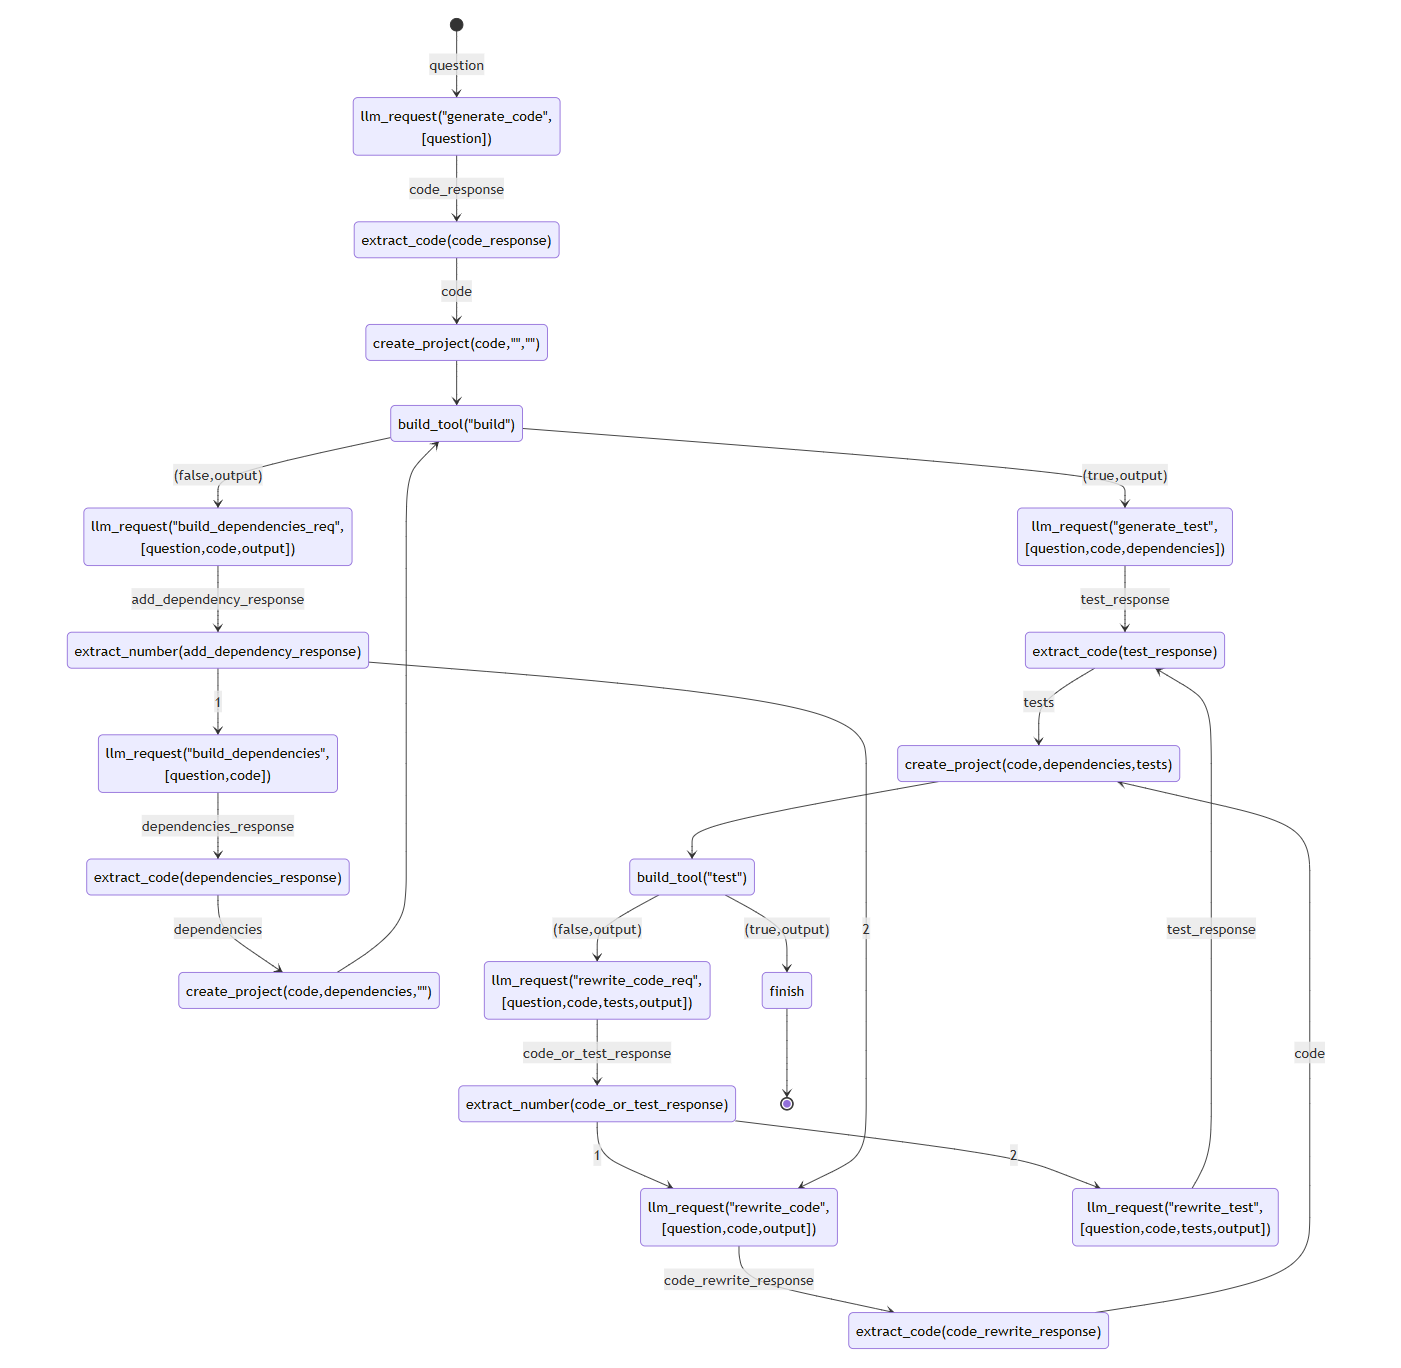
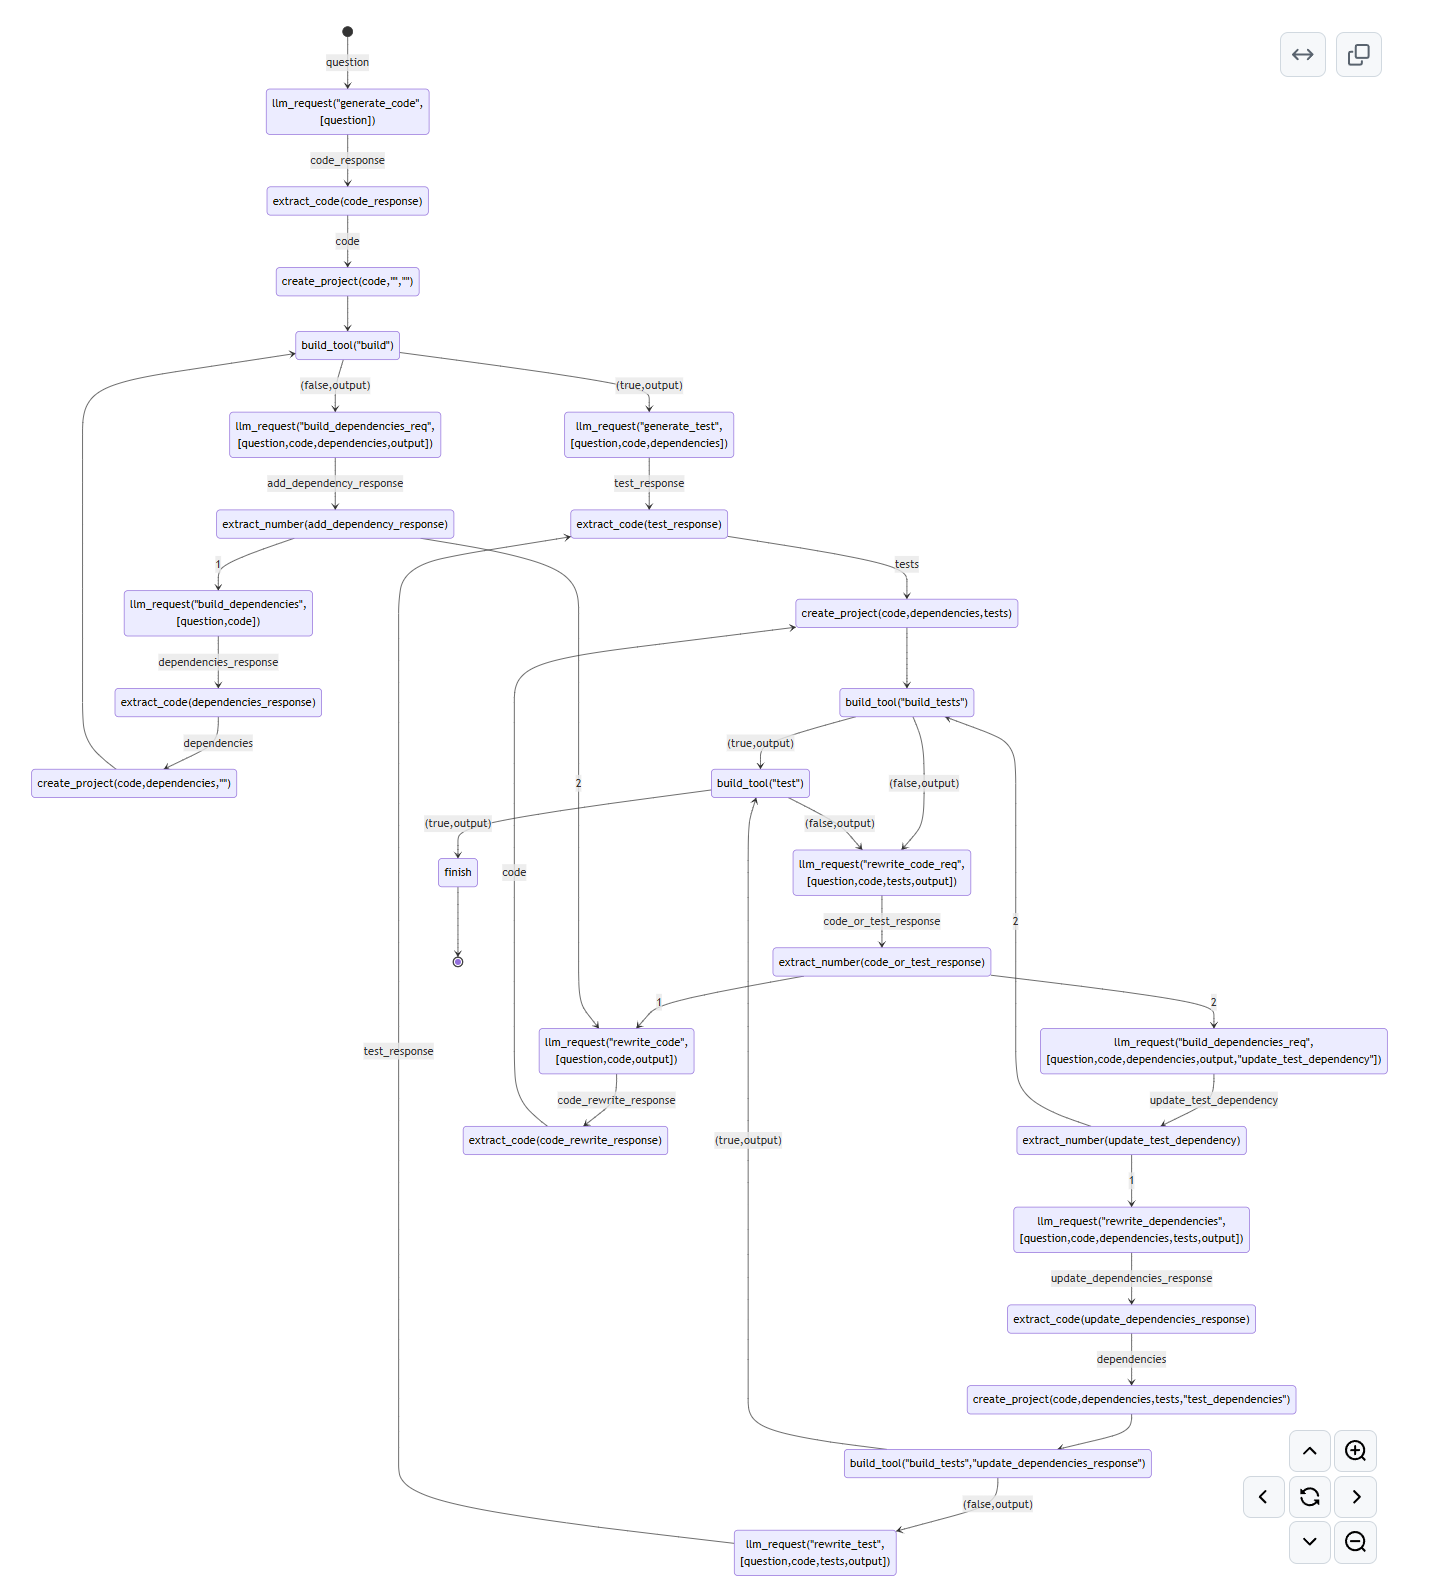
Logic prompt improve (#2)

diff --git a/src/build_tool.rs b/src/build_tool.rs
@@ -1,8 +1,13 @@
 use crate::cache::Cache;
 use crate::{DEBUG};
 
-pub fn build_tool(lang: &str, command: &str, cache: &mut Cache) -> (bool, String) {
+pub fn build_tool(lang: &str, command_str: &str, cache: &mut Cache) -> (bool, String) {
     if lang == "rust" {
+        let command = if command_str == "build_tests" {
+            "test --no-run"
+        } else {
+            command_str
+        };
         println!("Exec: cargo {}", command);
         let code = if std::path::Path::new("sandbox/src/main.rs").exists() {
             std::fs::read_to_string("sandbox/src/main.rs").unwrap()
@@ -20,9 +25,10 @@ pub fn build_tool(lang: &str, command: &str, cache: &mut Cache) -> (bool, String
         let result_str_opt = cache.get(&key);
         let result_str = match result_str_opt {
             None => {
-
+                // split by ' '
+                let args= command.split(" ").collect::<Vec<&str>>();
                 let output = std::process::Command::new("cargo")
-                    .arg(command)
+                    .args(args)
                     .current_dir("sandbox")
                     .output()
                     .unwrap();

diff --git a/src/main.rs b/src/main.rs
@@ -17,6 +17,8 @@ fn main() {
 
     println!("Use '\\' char in the end of line for multiline mode or just copy-paste multiline text.");
     println!("");
+    println!("For launch code generation, type ENTER twice after the last line of the prompt.");
+    println!("");
     println!("Explain what the function should do:");
     let mut question;
     let mut lines = vec![];
@@ -53,8 +55,10 @@ fn main() {
         }
     }
     question = lines.join("");
-    question.pop();
-    question.pop();
+    question = question.trim().to_string();
+    question.push('\r');
+    question.push('\n');
+
 
     let mut code = "".to_string();
     let mut dependencies = "".to_string();

diff --git a/logic.md b/logic.md
@@ -5,18 +5,28 @@ llm_request("generate_code",[question]) --> extract_code(code_response) : code_r
 extract_code(code_response) --> create_project(code,"","") : code
 create_project(code,"","") --> build_tool("build")
 create_project(code,dependencies,"") --> build_tool("build")
-create_project(code,dependencies,tests) --> build_tool("test")
+create_project(code,dependencies,tests) --> build_tool("build_tests")
+build_tool("build_tests") --> build_tool("test") : (true,output)
+build_tool("build_tests") --> llm_request("rewrite_code_req",[question,code,tests,output]) : (false,output)
 build_tool("test") --> finish : (true,output)
 build_tool("test") --> llm_request("rewrite_code_req",[question,code,tests,output]) : (false,output)
 llm_request("rewrite_code_req",[question,code,tests,output]) --> extract_number(code_or_test_response) : code_or_test_response
 extract_number(code_or_test_response) --> llm_request("rewrite_code",[question,code,output]) : 1
-extract_number(code_or_test_response) --> llm_request("rewrite_test",[question,code,tests,output]) : 2
+extract_number(code_or_test_response) -->  llm_request("build_dependencies_req",[question,code,dependencies,output,"update_test_dependency"]): 2
+llm_request("build_dependencies_req",[question,code,dependencies,output,"update_test_dependency"]) --> extract_number(update_test_dependency) : update_test_dependency
+extract_number(update_test_dependency) --> llm_request("rewrite_dependencies",[question,code,dependencies,tests,output]) : 1
+extract_number(update_test_dependency) --> build_tool("build_tests") : 2
+llm_request("rewrite_dependencies",[question,code,dependencies,tests,output]) --> extract_code(update_dependencies_response) : update_dependencies_response
+extract_code(update_dependencies_response) --> create_project(code,dependencies,tests,"test_dependencies") : dependencies
+create_project(code,dependencies,tests,"test_dependencies") --> build_tool("build_tests","update_dependencies_response")
+build_tool("build_tests","update_dependencies_response") --> build_tool("test"): (true,output)
+build_tool("build_tests","update_dependencies_response") --> llm_request("rewrite_test",[question,code,tests,output]): (false,output)
 llm_request("rewrite_test",[question,code,tests,output]) --> extract_code(test_response) : test_response
 llm_request("rewrite_code",[question,code,output]) --> extract_code(code_rewrite_response) : code_rewrite_response
 extract_code(code_rewrite_response) --> create_project(code,dependencies,tests): code
 build_tool("build") --> llm_request("generate_test",[question,code,dependencies]) : (true,output) 
-build_tool("build") --> llm_request("build_dependencies_req",[question,code,output]) : (false,output) 
-llm_request("build_dependencies_req",[question,code,output])  --> extract_number(add_dependency_response) : add_dependency_response
+build_tool("build") --> llm_request("build_dependencies_req",[question,code,dependencies,output]) : (false,output) 
+llm_request("build_dependencies_req",[question,code,dependencies,output])  --> extract_number(add_dependency_response) : add_dependency_response
 extract_number(add_dependency_response) --> llm_request("rewrite_code",[question,code,output]) : 2
 extract_number(add_dependency_response) --> llm_request("build_dependencies",[question,code]) : 1
 llm_request("build_dependencies",[question,code]) --> extract_code(dependencies_response) : dependencies_response
